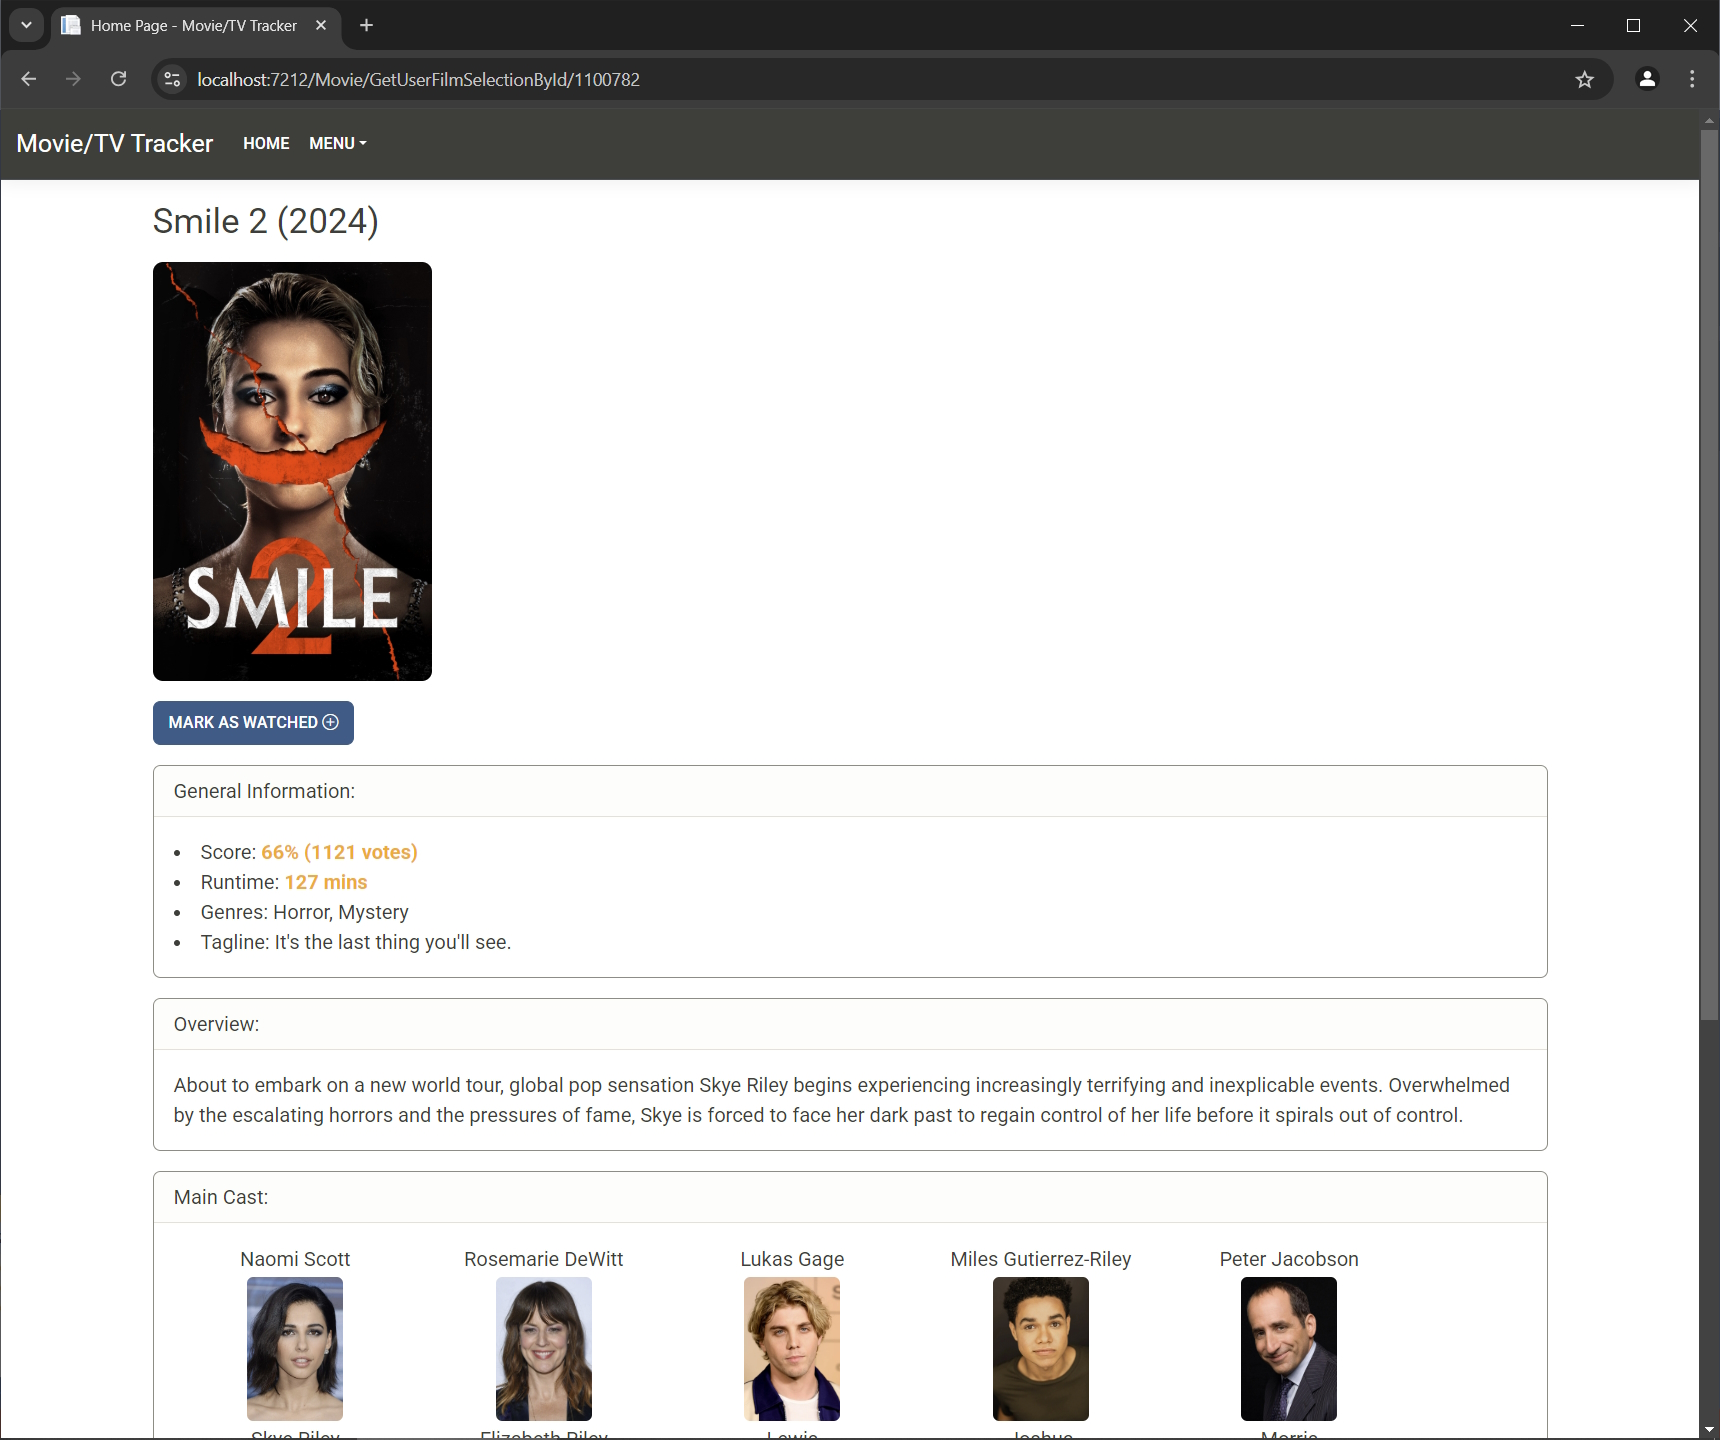
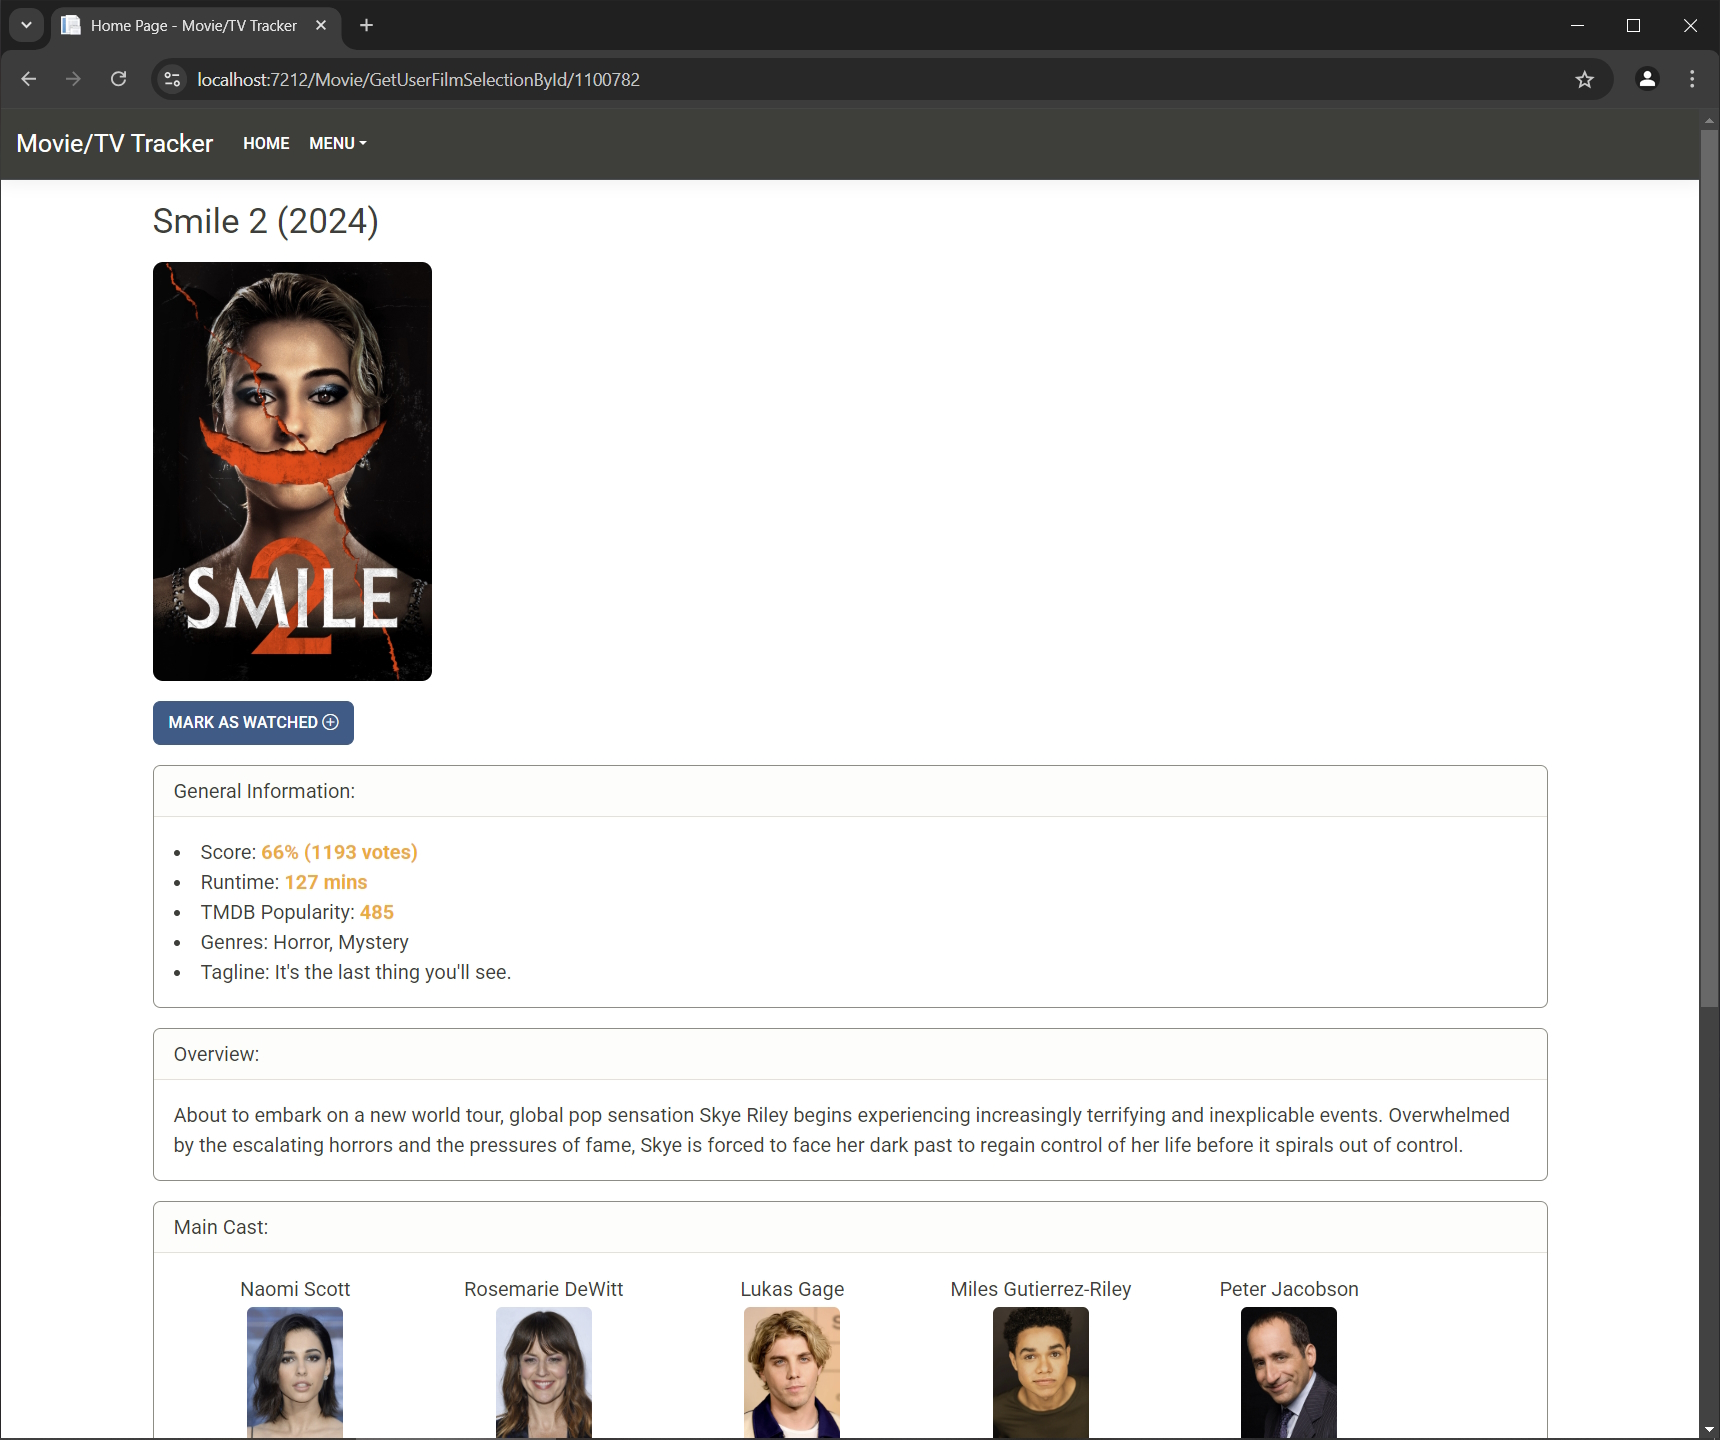
TMDB popularity is now show for a film and its highlighted a colour if its a high, medium or low score.  Updated images and readme.md.

diff --git a/README.md b/README.md
@@ -22,7 +22,7 @@ The second part of this project is a full-stack application consisting of a ASP.
 - Ability to mark films/tv shows the user has watched and have them displayed under a dedicated section for reference.
 - Ability to mark favorite actors and have them displayed under a dedicated section for reference.
 - Show graph/stat data of film/tv quantity, years, genres the user has watched.
-- Highlight film/tv runtime or TMDB score with different colours based on value returned. 
+- Highlight film/tv runtime, TMDB score, TMDB popularity with different colours based on value returned. 
 - Filter by English only or worldwide search results.
 
 NOTE!:
